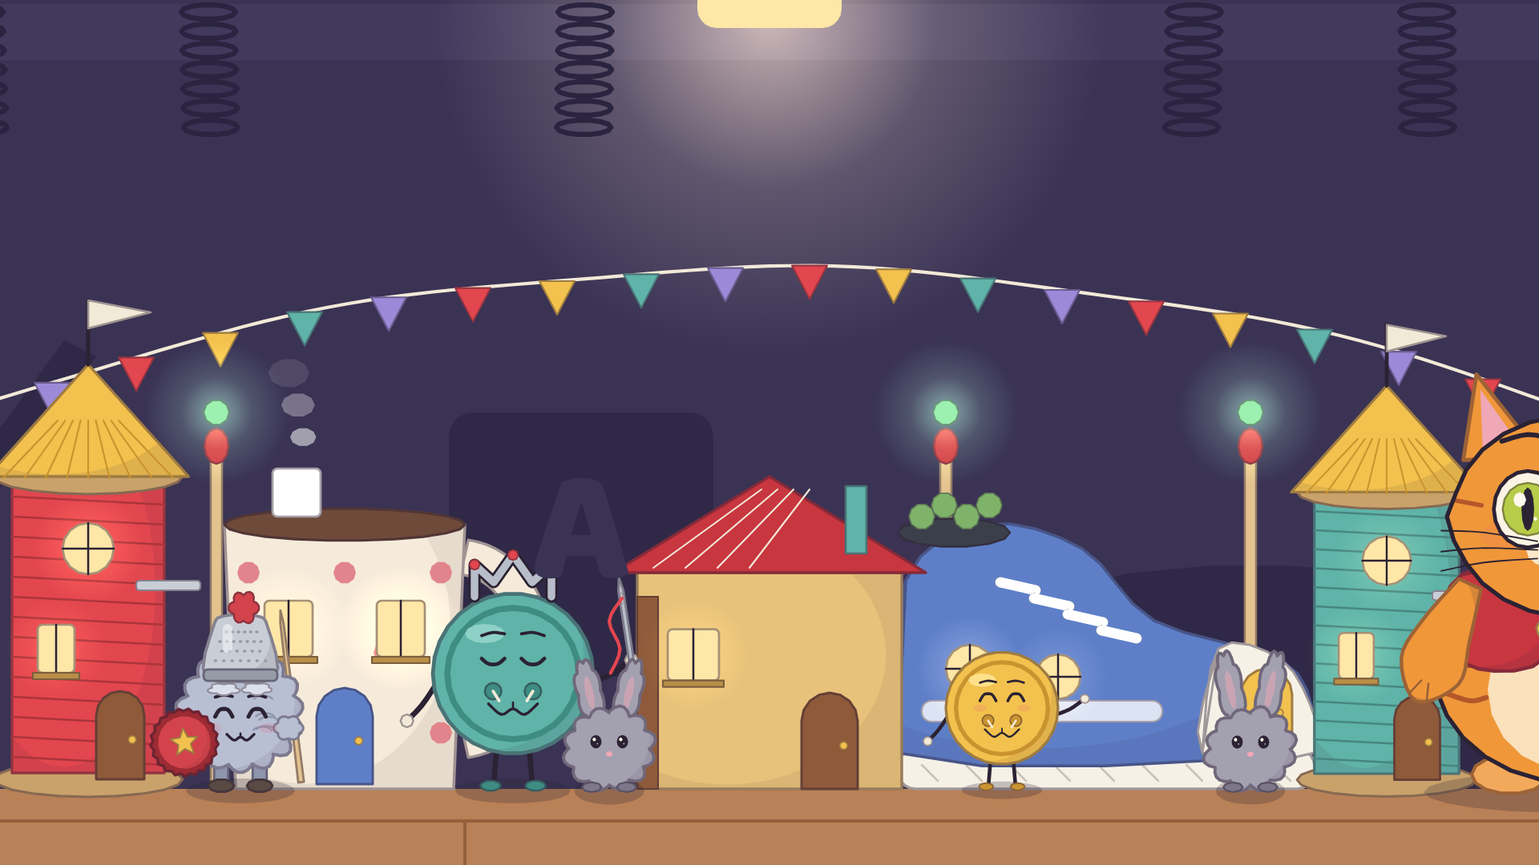
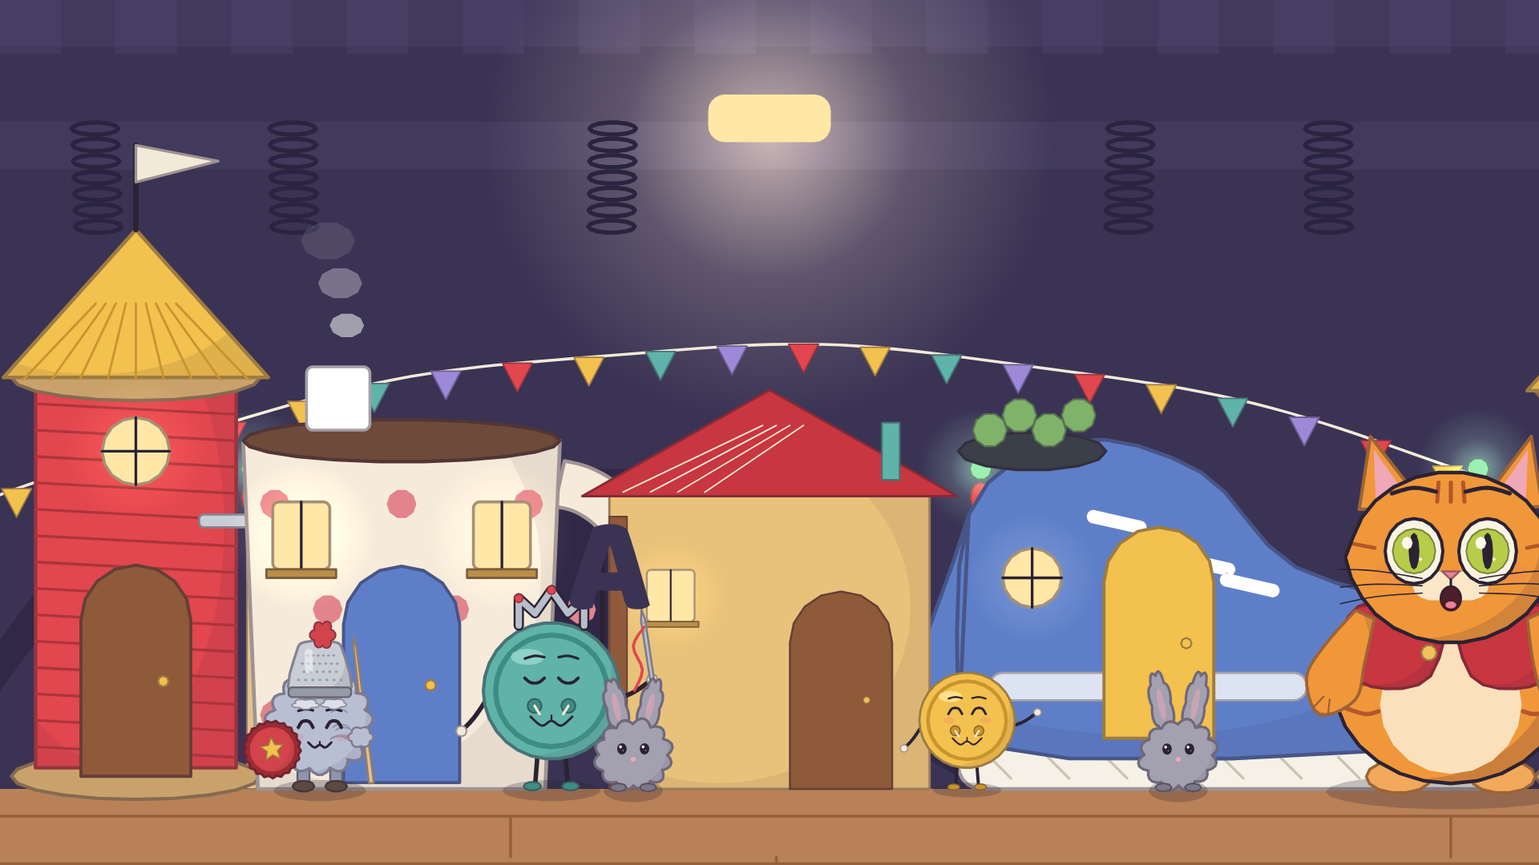
long/07 ch1: bigger houses (doors taller than the folk); new places: cookie-tin palace front, throne room, town gate; restage shots 08-11 across them + a parade beat
Claude-Session: https://claude.ai/code/session_01WxLgLCMvMcVaDmvrqqXGT7

diff --git a/long/07-couch-kingdom/src/sets.js b/long/07-couch-kingdom/src/sets.js
@@ -69,9 +69,9 @@ function slideJunk(t, s) {
 // a thread-spool tower, a mug house, a sneaker house, a tin-can house, and the matchbox cottage with a playing-card roof that
 // Pumpkin flattens. Above: the underside of the sofa (webbing straps, coil springs, the glowing gap). Floor: wooden boards.
 const LOT = [   // [kind, centre x, scale]
-  ['can', -330, 1], ['spool', 110, 1], ['mug', 430, 1], ['sneaker', 1380, 1], ['spool2', 1730, .95], ['can2', 2080, 1], ['mug2', -700, 1], ['sneaker2', 2450, 1],
+  ['mug2', -1150, 1.55], ['can', -560, 1.55], ['spool', 30, 1.55], ['mug', 420, 1.55], ['sneaker', 1640, 1.55], ['spool2', 2260, 1.5], ['can2', 2700, 1.55], ['sneaker2', 3350, 1.55],
 ];
-const COTTAGE = [960, 330, 270];   // centre x, w, h of the matchbox cottage Pumpkin lands on
+const COTTAGE = [960, 470, 430];   // centre x, w, h of the matchbox cottage Pumpkin lands on
 function townSquare(t, o = {}) {
   boilSeed('town');
   // the underside of the sofa: dark lining, webbing straps, springs
@@ -83,7 +83,7 @@ function townSquare(t, o = {}) {
   // far away: giant lost things as soft silhouettes (a pencil, a toy block, a slipper, a marble)
   const sil = '#2F2947';
   paint([[-300, TFY - 40], [80, TFY - 560], [120, TFY - 540], [-260, TFY - 20]], { wash: sil, ink: null });
-  paint(rrPts(560, TFY - 470, 330, 330, 30), { wash: sil, ink: null }); letter('A', 725, TFY - 300, 200, '#3A3354', { font: '800 200px "Baloo 2", sans-serif', ink: false });
+  paint(rrPts(560, TFY - 470, 330, 330, 30), { wash: sil, ink: null });
   paint(ellPts(1560, TFY - 120, 420, 160, 26), { wash: sil, ink: null });
   paint(ellPts(2150, TFY - 220, 150, 150, 24), { wash: sil, ink: null });
   // a bunting line of thread with stamp flags, strung across the square
@@ -95,7 +95,7 @@ function townSquare(t, o = {}) {
   for (let i = 0; i < 4; i++) inkLine([[-900, TFY + 40 + i * 60 + i * i * 10], [2900, TFY + 40 + i * 60 + i * i * 10]], 2, CK.floorDk, 'ink', 0);
   for (let i = 0; i < 12; i++) { const x = -800 + i * 330 + (i % 3) * 60; inkLine([[x, TFY + 40 + (i % 4) * 60], [x, TFY + 100 + (i % 4) * 70]], 2, CK.floorDk, 'ink', 0); }
   // matchstick lamp posts with LED lights
-  for (const x of [-120, 270, 1180, 1560, 2260]) { paint(rectPts(x - 7, TFY - 420, 14, 420), { wash: '#E3C38E', ink: PAL.ink, sw: 1.2 }); paint(ellPts(x, TFY - 428, 15, 22, 12), { wash: '#C8363F', ink: PAL.ink, sw: 1.2 }); glow(x, TFY - 470, 90, CK.led, .55); paint(ellPts(x, TFY - 470, 16, 16, 10), { wash: CK.led, ink: PAL.ink, sw: 1 }); }
+  for (const x of [-260, 200, 1270, 2000, 2480]) { paint(rectPts(x - 7, TFY - 420, 14, 420), { wash: '#E3C38E', ink: PAL.ink, sw: 1.2 }); paint(ellPts(x, TFY - 428, 15, 22, 12), { wash: '#C8363F', ink: PAL.ink, sw: 1.2 }); glow(x, TFY - 470, 90, CK.led, .55); paint(ellPts(x, TFY - 470, 16, 16, 10), { wash: CK.led, ink: PAL.ink, sw: 1 }); }
   // the houses
   LOT.forEach(([k, x, sc], i) => house(k, x, TFY, sc, t, i));
   if (o.house !== false) cottage(COTTAGE[0], TFY, o.squash || 0, t);
@@ -121,7 +121,7 @@ function house(kind, x, y, sc, t, i) {
     paint([[x - w * .66, y - h + 30], [x, y - h - 110], [x + w * .66, y - h + 30]], { wash: '#F2C14E', ink: PAL.ink, sw: 1.6, shade: true, shadeK: .5 });   // roof
     for (let k = -4; k <= 4; k++) inkLine([[x + k * w * .14, y - h + 32], [x + k * w * .05, y - h - 40]], 1, '#C9932F', 'ink', 0);
     inkLine([[x, y - h - 110], [x, y - h - 190]], 2.4, PAL.ink, 'ink', 0); paint([[x, y - h - 190], [x + 70 + Math.sin(t * 4) * 8, y - h - 175], [x, y - h - 155]], { wash: '#F2EAD8', ink: PAL.ink, sw: 1.2 });
-    win(x, y - 300, 64, 64, true, t, i); win(x - 40, y - 175, 46, 60, false, t, i + 1); door(x + 40, y - 12, 60, 110);
+    win(x, y - 320, 64, 64, true, t, i); door(x, y - 12, 104, 200);
     paint(rrPts(x + 60, y - 260, 80, 12, 4), { wash: '#C9CED6', ink: PAL.ink, sw: 1 });   // a hair-clip balcony
   } else if (kind.startsWith('mug')) {   // a mug house: polka dots, the handle is a balcony, a sugar-cube chimney
     const c = kind === 'mug' ? '#F6EBDA' : '#BFD9F2', w = 300, h = 330;
@@ -133,7 +133,7 @@ function house(kind, x, y, sc, t, i) {
     paint(ellPts(x, y - h, w / 2, 20, 22), { wash: '#6E4A3A', ink: PAL.ink, sw: 1.5 });   // coffee on top = the roof
     paint(rrPts(x - 90, y - h - 70, 60, 60, 6), { wash: '#FFFFFF', ink: PAL.ink, sw: 1.3 });   // sugar-cube chimney
     for (let k = 0; k < 3; k++) { const f = frac(t * .4 + k / 3); paint(ellPts(x - 60 + Math.sin(f * 6) * 10, y - h - 90 - f * 120, 14 + f * 14, 10 + f * 10, 10), { wash: '#FFFFFF', washOp: 160 * (1 - f), ink: null }); }
-    win(x - 70, y - 200, 60, 70, false, t, i); win(x + 70, y - 200, 60, 70, false, t, i + 1); door(x, y - 6, 70, 120, '#5E7FC8');
+    win(x - 95, y - 240, 54, 64, false, t, i); win(x + 95, y - 240, 54, 64, false, t, i + 1); door(x, y - 6, 110, 205, '#5E7FC8');
   } else if (kind.startsWith('sneaker')) {   // a lost sneaker lying on its side: the toe is the porch, the opening the roof garden
     const c = kind === 'sneaker' ? '#5E7FC8' : '#E2464E', w = 520;
     paint(rrPts(x - w / 2, y - 50, w, 50, 22), { wash: '#F6F1E6', ink: PAL.ink, sw: 1.6 });   // the sole
@@ -143,18 +143,18 @@ function house(kind, x, y, sc, t, i) {
     paint([[x + 120, y - 45], [x + 140, y - 175], [x + w / 2 - 40, y - 160], [x + w / 2, y - 90], [x + w / 2, y - 45]], { wash: '#F6F1E6', ink: PAL.ink, sw: 1.4, curv: .35 });   // toe cap
     for (let k = 0; k < 4; k++) { const lx = x - 110 + k * 42, ly = y - 262 + k * 20; paint(ellPts(lx - 22, ly + 4, 6, 6, 8), { wash: '#F2EAD8', ink: PAL.ink, sw: .8 }); paint(ellPts(lx + 22, ly + 14, 6, 6, 8), { wash: '#F2EAD8', ink: PAL.ink, sw: .8 }); inkLine([[lx - 22, ly + 4], [lx + 22, ly + 14]], 6, '#FFFFFF', 'ink', 0); }   // eyelets + laces, on the instep
     paint(rrPts(x - 230, y - 110, 300, 26, 12), { wash: '#FFFFFF', washOp: 200, ink: PAL.ink, sw: 1 });   // a side stripe
-    win(x - 170, y - 150, 60, 60, true, t, i); win(x - 60, y - 140, 56, 56, true, t, i + 1); door(x + 200, y - 50, 64, 100, '#F2C14E');
+    win(x + 200, y - 110, 54, 54, true, t, i); win(x - 190, y - 200, 56, 56, true, t, i + 1); door(x - 70, y - 48, 104, 200, '#F2C14E');
     paint(ellPts(x - w / 2 + 70, y - 320, 70, 18, 14), { wash: '#3B3F4A', ink: PAL.ink, sw: 1.2 });   // the opening = a roof garden
     for (let k = 0; k < 4; k++) paint(ellPts(x - w / 2 + 30 + k * 28, y - 340 - (k % 2) * 14, 16, 16, 10), { wash: '#7FB36A', ink: PAL.ink, sw: .8 });
   } else if (kind.startsWith('can')) {   // a tin-can house: ridges, a paper label, a bottle-cap roof
-    const c = kind === 'can' ? '#F2C14E' : '#9C8AD8', w = 230, h = 380;
+    const c = kind === 'can' ? '#F2C14E' : '#9C8AD8', w = 240, h = 430;
     paint(rectPts(x - w / 2, y - h, w, h), { wash: '#C9CED6', ink: PAL.ink, sw: 1.6, shade: true, shadeK: .5 });
     for (let k = 0; k < 6; k++) inkLine([[x - w / 2, y - 20 - k * 8], [x + w / 2, y - 20 - k * 8]], 1, '#959CA8', 'ink', 0);
-    paint(rectPts(x - w / 2, y - h + 70, w, 200), { wash: c, ink: PAL.ink, sw: 1.3 });   // the label
-    letter('BEANS', x, y - h + 120, 34, '#2B2233', { font: '800 34px "Baloo 2", sans-serif', ink: false });
+    paint(rectPts(x - w / 2, y - h + 40, w, 110), { wash: c, ink: PAL.ink, sw: 1.3 });   // the label
+    letter('BEANS', x, y - h + 95, 34, '#2B2233', { font: '800 34px "Baloo 2", sans-serif', ink: false });
     paint(ellPts(x, y - h, w / 2, 18, 20), { wash: '#DCE0EA', ink: PAL.ink, sw: 1.4 });
     castCrown(x, y - h + 4, 70, { col: '#E2464E' }, 1.6);   // a red bottle cap for a roof
-    win(x - 50, y - h + 200, 56, 60, false, t, i); win(x + 50, y - h + 200, 56, 60, false, t, i + 1); door(x, y, 72, 120, '#5A3E2B');
+    win(x - 82, y - 245, 40, 54, false, t, i); win(x + 82, y - 245, 40, 54, false, t, i + 1); door(x, y, 110, 210, '#5A3E2B');
   }
   pop();
 }
@@ -163,9 +163,9 @@ function cottage(x, y, squash, t) {
   const [, w, h] = COTTAGE, H = h * (1 - squash * .8), W2 = w * (1 + squash * .3), X = x - W2 / 2, roofH = 120 * (1 - squash * .85);
   paint(rectPts(X, y - H, W2, H), { wash: CK.match, ink: PAL.ink, sw: 1.6, shade: true, shadeK: .4 });
   paint(rectPts(X, y - H + 30, 26, H - 30), { wash: '#8E5A3A', ink: PAL.ink, sw: 1 });   // the striker strip
-  paint([[X - 30, y - H], [x, y - H - roofH], [X + W2 + 30, y - H]], { wash: '#C8363F', ink: PAL.ink, sw: 1.6 });   // the card roof (its back)
+  paint([[X - 40, y - H], [x, y - H - roofH * 1.3], [X + W2 + 40, y - H]], { wash: '#C8363F', ink: PAL.ink, sw: 1.6 });   // the card roof (its back)
   if (roofH > 30) { for (let k = 0; k < 4; k++) inkLine([[X + 20 + k * 40, y - H - 6], [x - 10 + k * 20, y - H - roofH + 16]], 1, '#F2EAD8', 'ink', 0); paint(rectPts(X + W2 - 70, y - H - roofH * .9, 26, roofH * .7), { wash: '#5FB3A8', ink: PAL.ink, sw: 1.2 }); }   // pattern + crayon chimney
-  if (squash < .5) { win(X + 70, y - H * .62, 64, 64, false, t, 7); door(X + W2 - 90, y, 70, Math.min(120, H - 30)); }
+  if (squash < .5) { win(X + 90, y - H * .66, 70, 76, false, t, 7); door(X + W2 - 130, y, 150, Math.min(290, H - 40)); }
   else for (let i = 0; i < 4; i++) inkLine([[X + W2 * (.15 + i * .22), y - H], [X + W2 * (.2 + i * .22), y - H * .3]], 1.4, CK.matchDk, 'ink', .4);
 }
 // (kept for the slide etc.)
@@ -209,4 +209,69 @@ function titleCard(t, top, main, k = 1) {
   paint(rectPts(-10, -10, W + 20, H + 20), { wash: '#15121F', ink: null });
   letter(top, W / 2, 430, 56, '#C9C3F2', { font: '800 56px "Baloo 2", sans-serif', screen: true, alpha: k });
   letter(main, W / 2, 560, 120, '#FFE27A', { font: '800 120px "Baloo 2", sans-serif', stroke: '#2B2233', screen: true, alpha: k });
+}
+
+// ---------- the palace: a big round butter-cookie tin ----------
+// Front (outside): the tin's blue side with a gold rim, a tall arched door, ribbon banners, steps made of stacked coins;
+// spool towers either side. STEP = the height of the top step (the Queen stands on it, x 960).
+const STEP = 150;
+function tinPrint(x0, y0, w, h, col, t) { for (let r = 0; r < Math.ceil(h / 110); r++) for (let c = 0; c < Math.ceil(w / 120); c++) { const x = x0 + 60 + c * 120 + (r % 2) * 60, y = y0 + 55 + r * 110; if (x > x0 + w - 20) continue; paint(starPts(x, y, 22, .45, 6, t * .0), { wash: col, ink: null }); paint(ellPts(x, y, 6, 6, 8), { wash: '#3E64B0', ink: null }); } }
+function palaceFront(t, o = {}) {
+  boilSeed('palace');
+  paint(rectPts(-900, -600, 3800, 1700), { wash: CK.town, ink: null });
+  for (let i = -6; i < 22; i++) paint(rectPts(i * 170, -600, 90, 420), { wash: CK.town2, washOp: 140, ink: null });
+  glow(960, -60, 420, CK.glow, .5);
+  // the tin
+  const L = 380, R = 1540, top = TFY - 820;
+  paint(rectPts(L, top, R - L, TFY - top), { wash: '#4F78C8', ink: PAL.ink, sw: 2, shade: true, shadeK: .4 });
+  tinPrint(L, top + 60, R - L, TFY - top - 120, '#F6F1E6', t);
+  paint(rectPts(L - 20, top - 10, R - L + 40, 70), { wash: '#F2C14E', ink: PAL.ink, sw: 1.8 });   // the lid rim
+  paint(ellPts((L + R) / 2, top - 10, (R - L) / 2 + 20, 40, 30), { wash: '#F6D27A', ink: PAL.ink, sw: 1.6 });
+  paint(rectPts(L - 10, TFY - 60, R - L + 20, 60), { wash: '#F2C14E', ink: PAL.ink, sw: 1.6 });   // the base rim
+  // banners: ribbons hanging from the rim
+  for (const x of [520, 1400]) { const sw = Math.sin(t * 2 + x) * 8; paint([[x - 50, top + 60], [x + 50, top + 60], [x + 50 + sw, top + 420], [x + sw, top + 380], [x - 50 + sw, top + 420]], { wash: '#C8363F', ink: PAL.ink, sw: 1.4 }); paint(starPts(x + sw * .5, top + 200, 30, .45, 5), { wash: '#F2C14E', ink: null }); }
+  // the great door (arched), open a crack of light
+  door(960, TFY - STEP, 300, 520, '#8E5A3A'); paint(rectPts(955, TFY - STEP - 460, 10, 460), { wash: '#FFE7A8', ink: null });
+  // the steps: stacked coins
+  for (let k = 0; k < 3; k++) { const h = STEP / 3, y = TFY - (k + 1) * h, w = 760 - k * 160; paint(rrPts(960 - w / 2, y, w, h, 10), { wash: CK.coin, ink: PAL.ink, sw: 1.5 }); for (let j = 0; j < w / 30; j++) inkLine([[960 - w / 2 + 10 + j * 30, y + 6], [960 - w / 2 + 10 + j * 30, y + h - 6]], 1, CK.coinDk, 'ink', 0); }
+  // spool towers either side
+  house('spool', 160, TFY, 1.55, t, 3); house('spool2', 1760, TFY, 1.55, t, 4);
+  paint(rectPts(-900, TFY, 3800, 700), { wash: CK.floor, ink: null });
+  for (let i = 0; i < 4; i++) inkLine([[-900, TFY + 40 + i * 60 + i * i * 10], [2900, TFY + 40 + i * 60 + i * i * 10]], 2, CK.floorDk, 'ink', 0);
+}
+// Inside the tin: the throne room. Blue tin walls (printed), paper cookie-cups as wall lamps, a throne made of a pink eraser
+// with a pin-cushion seat, a red ribbon carpet.
+function throneRoom(t) {
+  boilSeed('throne');
+  paint(rectPts(-900, -600, 3800, 1700), { wash: '#3E64B0', ink: null });
+  tinPrint(-900, -500, 3800, TFY + 400, '#5C82D0', t);
+  for (const x of [200, 760, 1160, 1720]) { glow(x, TFY - 560, 110, '#FFD27A', .5); paint([[x - 60, TFY - 600], [x + 60, TFY - 600], [x + 44, TFY - 520], [x - 44, TFY - 520]], { wash: '#F6F1E6', ink: PAL.ink, sw: 1.3 }); for (let k = -3; k <= 3; k++) inkLine([[x + k * 16, TFY - 598], [x + k * 12, TFY - 522]], 1, '#C9C3B6', 'ink', 0); paint(ellPts(x, TFY - 520, 26, 14, 10), { wash: '#FFE7A8', ink: null }); }
+  // the throne at the back (centre-left): an eraser with a pin-cushion
+  paint(rrPts(380, TFY - 520, 280, 520, 30), { wash: '#F2A0AE', ink: PAL.ink, sw: 1.8, shade: true, shadeK: .4 });
+  paint(rectPts(380, TFY - 210, 280, 90), { wash: '#5F8FD0', ink: PAL.ink, sw: 1.4 });
+  paint(ellPts(520, TFY - 230, 150, 60, 20), { wash: '#C8363F', ink: PAL.ink, sw: 1.6 });
+  for (let k = 0; k < 5; k++) { const px = 420 + k * 50; inkLine([[px, TFY - 250], [px + 10, TFY - 310]], 2, '#C9CED6', 'ink', 0); paint(ellPts(px + 10, TFY - 314, 8, 8, 8), { wash: ['#F2C14E', '#5FB3A8', '#9C8AD8'][k % 3], ink: PAL.ink, sw: .8 }); }
+  // the floor: the tin's bottom (pale gold) and a ribbon carpet
+  paint(rectPts(-900, TFY, 3800, 700), { wash: '#E9C878', ink: null });
+  paint([[-900, TFY + 40], [2900, TFY + 40], [2900, TFY + 120], [-900, TFY + 120]], { wash: '#C8363F', ink: null });
+  for (let i = 0; i < 3; i++) inkLine([[-900, TFY + 160 + i * 70], [2900, TFY + 160 + i * 70]], 2, '#C9A453', 'ink', 0);
+}
+// The edge of town: the last houses on the left, a gate of two coin stacks with a thread-and-button arch, and beyond it the
+// dark under the sofa: dust dunes and, far away, the Dragon's lair. dark 0..1.
+function townGate(t, o = {}) {
+  boilSeed('gate');
+  paint(rectPts(-900, -600, 3800, 1700), { wash: '#221D33', ink: null });
+  for (let i = -6; i < 22; i++) paint(rectPts(i * 170, -600, 90, 420), { wash: CK.town, washOp: 160, ink: null });
+  // dust dunes beyond the gate (right)
+  for (const [x, w, c] of [[1500, 900, '#2C2640'], [2200, 1100, '#272138'], [1100, 700, '#302A46']]) paint(ellPts(x, TFY + 40, w / 2, 220, 30), { wash: c, ink: null });
+  // the last houses, left
+  house('mug', 140, TFY, 1.55, t, 5); house('spool', 560, TFY, 1.55, t, 6);
+  // the gate: two coin stacks and an arch of thread with button beads
+  for (const x of [880, 1420]) { for (let k = 0; k < 14; k++) paint(ellPts(x, TFY - 20 - k * 38, 70, 20, 18), { wash: CK.coin, ink: PAL.ink, sw: 1.3 }); }
+  const arch = arcPts(1150, TFY - 560, 270, 160, Math.PI, TAU, 16);
+  inkLine(arch, 6, '#F2EAD8', 'ink', .2); arch.forEach(([x, y], i) => { if (i % 3 === 0) paint(ellPts(x, y, 16, 16, 10), { wash: ['#E2464E', '#F2C14E', '#5FB3A8'][i % 3], ink: PAL.ink, sw: 1 }); });
+  letter('LOSTLAND', 1150, TFY - 640, 46, '#F2C14E', { font: '800 46px "Baloo 2", sans-serif', stroke: '#2B2233' });
+  paint(rectPts(-900, TFY, 3800, 700), { wash: CK.floor, ink: null });
+  for (let i = 0; i < 4; i++) inkLine([[-900, TFY + 40 + i * 60 + i * i * 10], [2900, TFY + 40 + i * 60 + i * i * 10]], 2, CK.floorDk, 'ink', 0);
+  if (o.dark) paint(rectPts(-900, -600, 3800, 1800), { wash: '#0E0B18', washOp: 190 * o.dark, ink: null });
 }

diff --git a/long/07-couch-kingdom/src/scenes/shots.js b/long/07-couch-kingdom/src/scenes/shots.js
@@ -162,26 +162,37 @@
   // square. "That's a receipt." "The Ancient RECEIPT!" ... the drawing: a cheese puff. "Then explain THAT!" — whip to Pumpkin,
   // who has just pulled a cheese puff out of his vest and is about to eat it. "...I can't."
   function s08(t) {
-    const qx = lerp(-150, 560, ease(seg(t, 80, 83))), unroll = ease(seg(t, 86.6, 89.5));
+    // 80-82: the parade. The bunnies carry him across town (camera tracking right), Pip riding on his head, Sir Lint marching ahead.
+    if (t < 82) {
+      const k = seg(t, 80, 82), x = lerp(600, 2300, k);
+      camT(x, 1.15);
+      townSquare(t, { squash: 1, house: false });
+      for (let i = 0; i < 5; i++) dustBunny(x - 160 + i * 80, TFY, U * .9, { ...face('happy', { eyes: 'happy' }), seed: 20 + i, dy: -Math.abs(Math.sin(t * 12 + i)) * .3, boilKey: 'pb' + i });
+      pumpkin(x, TFY - 90 - Math.abs(Math.sin(t * 6)) * 14, U, { ...face('happy', { mouth: 'grin', blush: .4 }), aL: .9, aR: .9, noShadow: true, boilKey: 'pk' });
+      pip(x + 30, HEAD - 90 - Math.abs(Math.sin(t * 6)) * 14, U, { ...face('deadpan'), view: 'q', sq: .2, noShadow: true, boilKey: 'pip' });
+      sirLint(x + 420, TFY, U * 1.1, { ...face('determined', { mouth: 'grin' }), view: 'side', dy: -Math.abs(Math.sin(t * 10)) * .3, lance: .9, boilKey: 'lint' });
+      speedLines(x - 300, TFY - 250, 1, t, 5, 200, 260);
+      camEnd(); return;
+    }
+    // 82-108: the palace front. The Queen on the top step (centre); Pumpkin left, Pip right, Sir Lint by Pumpkin.
+    const PK8 = 560, PIP8 = 1350, qx = 960, qy = TFY - STEP, unroll = ease(seg(t, 86.6, 89.5));
     const whip = seg(t, 100.4, 100.8), cuPuff = t > 94.8 && t < 97.5;
-    let cx = 820, z = 1.3;
-    if (t > 89.2 && t < 90.8) { cx = 1110; z = 2.0; }            // Pip, deadpan
-    if (t > 97.5 && t < 100.4) { cx = 1110; z = 2.0; }
-    if (t >= 100.4) { cx = lerp(640, 900, ease(whip)); z = lerp(1.6, 1.7, whip); }
+    let cx = 960, z = 1.15;
+    if (t > 89.2 && t < 90.8) { cx = PIP8; z = 2.0; }            // Pip, deadpan
+    if (t > 97.5 && t < 100.4) { cx = PIP8; z = 2.0; }
+    if (t >= 100.4) { cx = lerp(PIP8, PK8 + 120, ease(whip)); z = lerp(2.0, 1.7, whip); }
     camT(cx, z, [Math.sin(whip * Math.PI) * 300, 0]);
-    townSquare(t, { squash: 1 });
-    crowd(t, { kneel: true });
-    // the receipt runs from the Queen's hand out along the ground to the right
-    if (t > 86.4) receipt(qx + 90, TFY - 200, 120 + unroll * 700, t * .5);
-    queenButton(qx, TFY, U, { ...faces(t, [[80, 'proud'], [86, 'happy', { mouth: 'grin' }], [89.5, 'annoyed'], [91, 'proud', { mouth: 'grin' }], [93.6, 'neutral', { brow: .3 }], [100.4, 'determined', { mouth: 'grin' }], [104.6, 'proud']]),
-      aL: t > 86.4 && t < 99 ? .4 : -.9, aR: t > 100.4 && t < 103 ? .9 : .5, view: t > 100.4 ? 'q' : 'front', who: 'queen', boilKey: 'queen' });
-    // the cheese puff he finds in his vest at 99.5 and is about to eat when the Queen points
+    palaceFront(t);
+    // the receipt drops from the Queen's hand down the steps... and keeps going
+    if (t > 86.4) receipt(qx + 90, qy - 200, 120 + unroll * 760, t * .5);
+    queenButton(qx, qy, U, { ...faces(t, [[82, 'proud'], [86, 'happy', { mouth: 'grin' }], [89.5, 'annoyed'], [91, 'proud', { mouth: 'grin' }], [93.6, 'neutral', { brow: .3 }], [100.4, 'determined', { mouth: 'grin' }], [104.6, 'proud']]),
+      aL: t > 100.4 && t < 103 ? .9 : -.9, aR: t > 86.4 && t < 99 ? .4 : .5, flip: t > 100.4, view: t > 100.4 ? 'q' : 'front', who: 'queen', boilKey: 'queen' });
     const holding = t > 99.3;
-    pumpkin(PKX, TFY, U, { ...faces(t, [[80, 'neutral', { lookX: -1 }], [87, 'surprised', { lookX: -1, lookY: .5 }], [99.3, 'greedy', { lookY: .5 }], [100.8, 'surprised', { eyes: 'wide', lookX: -1 }], [102.4, 'sheepish', { lookX: -1 }]]),
-      sq: .22, aL: holding ? .45 : -1.2, armL: holding ? (u, sw) => cheesePuff(1.2 * u, 0, .3, .55) : undefined, boilKey: 'pk' });
-    pip(PIPX, TFY, U, { ...faces(t, [[80, 'deadpan', { lookX: -1 }], [96, 'deadpan', { lookX: -1, browUp: .4 }], [101, 'surprised', { lookX: -1 }], [103.6, 'sheepish', { lookX: -1 }]]), view: 'q', flip: true, aL: t > 97.4 && t < 99 ? .6 : -.6, aR: -.6, who: 'pip', boilKey: 'pip' });
-    sirLint(250, TFY, U, { ...face('happy', { lookX: 1 }), view: 'q', sq: .2, rot: .25, lance: 2.9, boilKey: 'lint' });
-    for (let i = 0; i < 2; i++) if (t < 84) { const x = qx - 220 - i * 120; dustBunny(x, TFY, U, { ...face('happy'), seed: 8 + i, hop: true, boilKey: 'tb' + i }); paint([[x + 20, TFY - 150], [x + 110, TFY - 190], [x + 110, TFY - 130]], { wash: CK.coin, ink: PAL.ink, sw: 1.2 }); }   // trumpets
+    pumpkin(PK8, TFY, U, { ...faces(t, [[82, 'surprised', { lookX: 1, lookY: -.3 }], [87, 'surprised', { lookX: 1, lookY: .5 }], [99.3, 'greedy', { lookY: .5 }], [100.8, 'surprised', { eyes: 'wide', lookX: 1 }], [102.4, 'sheepish', { lookX: 1 }]]),
+      view: 'q', aL: holding ? .45 : -1.2, aR: -1.2, armL: holding ? (u, sw) => cheesePuff(1.2 * u, 0, .3, .55) : undefined, boilKey: 'pk' });
+    pip(PIP8, TFY, U, { ...faces(t, [[82, 'deadpan', { lookX: -1 }], [96, 'deadpan', { lookX: -1, browUp: .4 }], [101, 'surprised', { lookX: -1 }], [103.6, 'sheepish', { lookX: -1 }]]), view: 'q', flip: true, aL: t > 97.4 && t < 99 ? .6 : -.6, aR: -.6, who: 'pip', boilKey: 'pip' });
+    sirLint(250, TFY, U, { ...face('happy', { lookX: 1 }), view: 'q', boilKey: 'lint' });
+    for (const [i, x] of [[0, 700], [1, 1220]]) if (t < 86) { dustBunny(x, TFY - STEP / 3, U, { ...face('happy'), seed: 8 + i, flip: i > 0, boilKey: 'tb' + i }); const d = i ? -1 : 1; paint([[x + d * 20, TFY - STEP / 3 - 150], [x + d * 110, TFY - STEP / 3 - 190], [x + d * 110, TFY - STEP / 3 - 130]], { wash: CK.coin, ink: PAL.ink, sw: 1.2 }); }   // trumpeters
     camEnd();
     if (cuPuff) {   // insert: the end of the receipt, full frame — the prophecy is a doodle of a cheese puff
       paint(rectPts(-10, -10, W + 20, H + 20), { wash: '#FFFDF6', ink: null });
@@ -202,7 +213,7 @@
     if (t > 119.6 && t < 123.8) cam(PKX, HEAD + 150, 2.6);        // close on the slipped crown
     else if (t > 114.8 && t < 118.6) camT(1050, 1.8);
     else camT(860, 1.3);
-    townSquare(t, { squash: 1 });
+    throneRoom(t);
     crowd(t, { kneel: t < 126, cheer: t > 126 });
     if (cape > 0) sockCape(PKX, TFY, U, { wind: t > 126 ? .4 : 0, dy: (1 - cape) * -3 });
     const hasFork = pull > 0;
@@ -226,7 +237,7 @@
   function s10(t) {
     const z1 = 137.0, z2 = 143.3, lift = ease(seg(t, 150, 151.2));
     if (t > 145.8 && t < 149.8) camT(760, 1.9); else camT(900, 1.3, [0, 0], lift * 90);
-    townSquare(t, { squash: 1 });
+    palaceFront(t);
     crowd(t, { cheer: t > 140 });
     sockCape(PKX, TFY - lift * 120, U, { wind: .3 });
     const wave = (t > 131.5 && t < 137.2) || (t > 142 && t < 143.4);
@@ -258,9 +269,9 @@
     const close = t > 165.6;
     if (close) camT(1230, 1.9, sh); else camT(1000, 1.15, sh, 60);
     const sweep = t > 171 && t < 175 ? Math.sin(seg(t, 171, 175) * Math.PI) : 0;
-    townSquare(t, { squash: 1, dark: .55 * seg(t, 158, 160) * (1 - sweep * .6) });
-    dragonEyes(1500 - (t > 174.5 ? (t - 174.5) * 600 : 0), 300, seg(t, 158.6, 159.4) * (t > 175 ? 1 - seg(t, 175, 176) : 1), t);
-    if (sweep > 0) paint([[1500, 300], [600 + sweep * 300, 1100], [1300 + sweep * 300, 1100]], { wash: '#FF4A4A', washOp: 70 * sweep, ink: null });
+    townGate(t, { dark: .55 * seg(t, 158, 160) * (1 - sweep * .6) });
+    dragonEyes(1700 - (t > 174.5 ? (t - 174.5) * 600 : 0), TFY - 330, seg(t, 158.6, 159.4) * (t > 175 ? 1 - seg(t, 175, 176) : 1), t);
+    if (sweep > 0) paint([[1700, TFY - 330], [600 + sweep * 300, 1100], [1300 + sweep * 300, 1100]], { wash: '#FF4A4A', washOp: 70 * sweep, ink: null });
     crowd(t, { flee: 160.8 });
     queenButton(560 - 900 * easeIn(seg(t, 161, 161.8)), TFY, U, { ...faces(t, [[155, 'surprised'], [160.3, 'panic', { mouth: 'O' }]]), who: 'queen', boilKey: 'queen' });
     sirLint(700 - 900 * easeIn(seg(t, 161.3, 162.1)), TFY, U * 1.1, { ...face('panic'), view: 'q', flip: true, noShield: true, boilKey: 'lint' });

diff --git a/long/07-couch-kingdom/src/sheets.js b/long/07-couch-kingdom/src/sheets.js
@@ -25,7 +25,7 @@
   LOOPS.lineup.len = 2;
   // the new town, wide, with the folk in it for scale
   LOOPS.town = t => {
-    camBegin(960, TFY - 445 / 1.0, 1.0);
+    camBegin(960, TFY - 445 / 0.85, 0.85);
     townSquare(t, {});
     sirLint(300, TFY, 40, { ...face('happy'), boilKey: 'tl' }); queenButton(640, TFY, 40, { ...face('proud'), boilKey: 'tq' });
     dustBunny(760, TFY, 40, { seed: 2, boilKey: 'tb' }); buttonFolk(1250, TFY, 40, { ...face('happy'), seed: 1, boilKey: 'tf' }); dustBunny(1560, TFY, 40, { seed: 4, boilKey: 'tb2' });
@@ -33,6 +33,11 @@
     camEnd();
   };
   LOOPS.town.len = 2;
+  const placeCam = () => camBegin(960, TFY - 445 / .85, .85);
+  LOOPS.place0 = t => { placeCam(); palaceFront(t); queenButton(960, TFY - STEP, 40, { ...face('proud'), boilKey: 'pq' }); pumpkin(560, TFY, 40, { ...face('surprised'), view: 'q', boilKey: 'pp' }); pip(1350, TFY, 40, { ...face('deadpan'), view: 'q', flip: true, boilKey: 'pi' }); camEnd(); };
+  LOOPS.place1 = t => { placeCam(); throneRoom(t); queenButton(560, TFY, 40, { ...face('happy'), boilKey: 'tq' }); pumpkin(960, TFY, 40, { ...face('proud'), crown: true, boilKey: 'tp' }); dustBunny(1300, TFY, 40, { seed: 3, boilKey: 'tb' }); camEnd(); };
+  LOOPS.place2 = t => { placeCam(); townGate(t, { dark: .3 }); pumpkin(800, TFY, 40, { ...face('panic'), view: 'q', boilKey: 'gp' }); pip(1050, TFY, 40, { ...face('surprised'), view: 'q', boilKey: 'gi' }); dragonEyes(2000, TFY - 300, 1, t); camEnd(); };
+  for (const k of ['place0', 'place1', 'place2']) LOOPS[k].len = 2;
 
   // a row: views then expressions of one character
   const row = (fn, gy, u, views, faces_, extra = {}) => {
